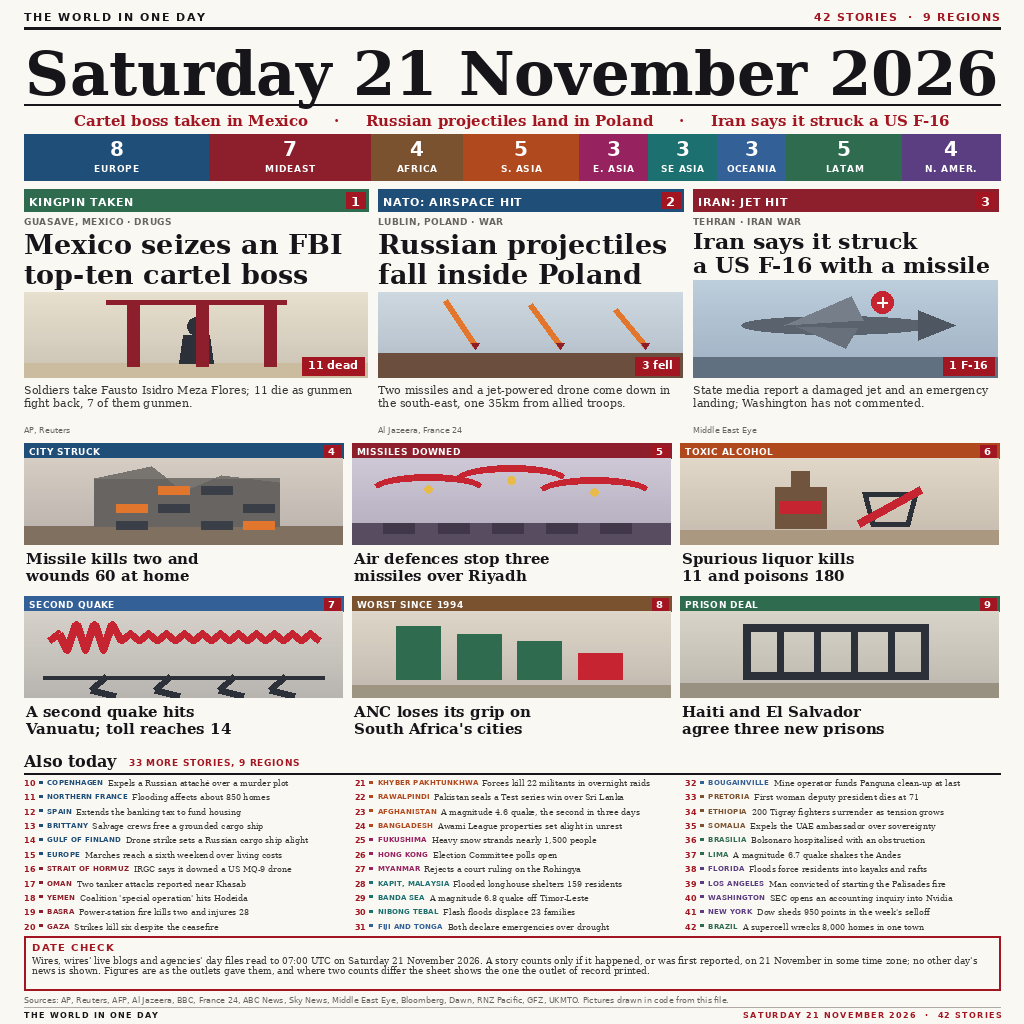
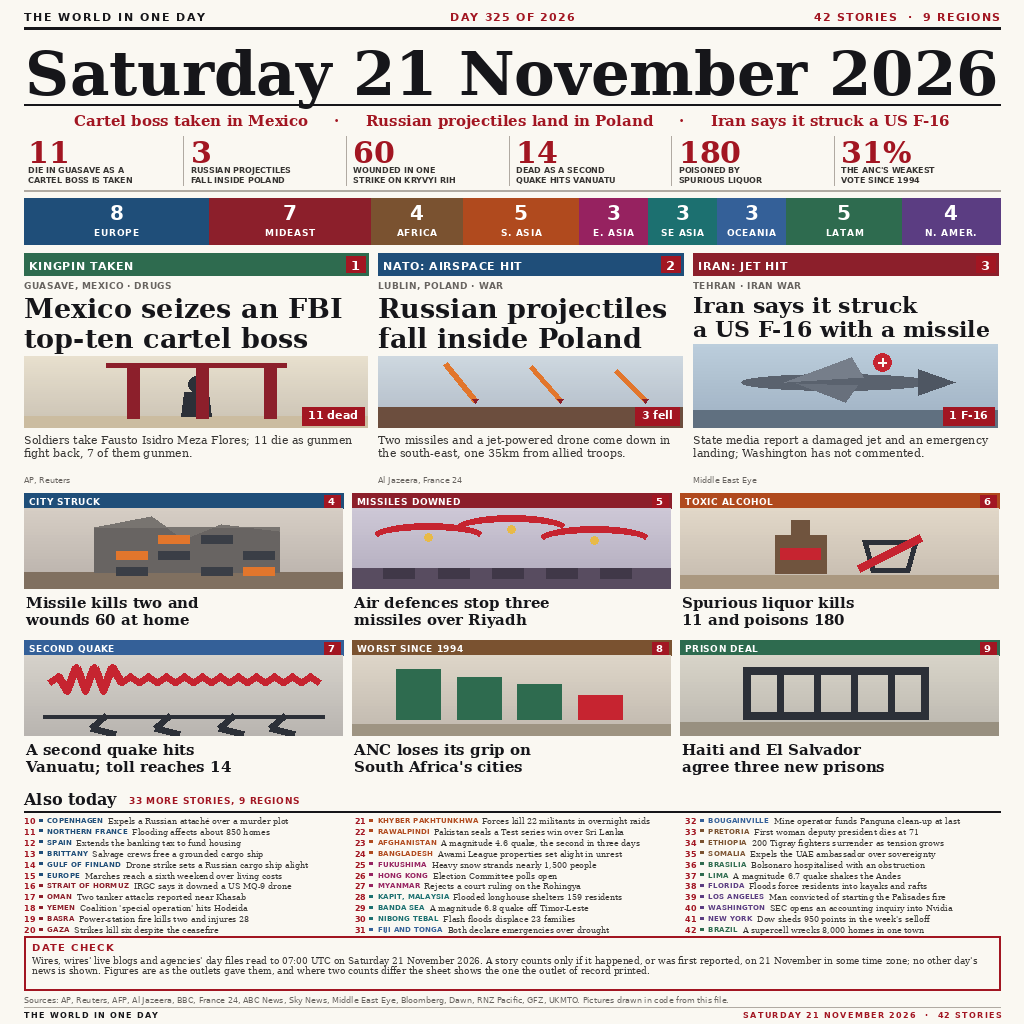
Add a six-figure band and a day-of-year stamp: quantities above the fold

diff --git a/tools/render21.py b/tools/render21.py
@@ -117,6 +117,10 @@ def head_block(draw, y):
     """Running head, the date, the day's three sell lines."""
     f_head = font(SANS_B, 11)
     tracked(draw, (MARGIN, y), "THE WORLD IN ONE DAY", f_head, INK, 1.6)
+    # Day of year in the middle: a second, numeric way of naming the day.
+    mid = f"DAY {S.DAY_OF_YEAR} OF 2026"
+    f_m = font(SANS_B, 11)
+    tracked(draw, ((W - text_w(draw, mid, f_m, 1.2)) / 2, y), mid, f_m, RED, 1.2)
     right = f"{S.total_stories()} STORIES  ·  {len(S.REGIONS)} REGIONS"
     f_r = font(SANS_B, 11)
     tracked(draw, (W - MARGIN - text_w(draw, right, f_r, 1.2), y), right, f_r, RED, 1.2)
@@ -132,12 +136,35 @@ def head_block(draw, y):
     rule(draw, y, 2, INK)
     y += 7
 
-    sell = "     ·     ".join(S.STRAPLINE)
-    f_it, _ = fit(draw, sell, SERIF_B, 15, MEASURE)
-    tw = draw.textlength(sell, font=f_it)
-    draw.text(((W - tw) / 2, y), sell, font=f_it, fill=RED)
+    st = "     ·     ".join(S.STRAPLINE)
+    f_it, _ = fit(draw, st, SERIF_B, 15, MEASURE)
+    tw = draw.textlength(st, font=f_it)
+    draw.text(((W - tw) / 2, y), st, font=f_it, fill=RED)
     y += f_it.size + 8
     return y
+
+
+def figures_block(draw, y):
+    """Six figures in red with captions, rule-separated, on one baseline band."""
+    colw = MEASURE / 6
+    top = y
+    bottoms = []
+    for i, (num, cap) in enumerate(S.FIGURES):
+        cx = MARGIN + i * colw
+        f_num, nsz = fit(draw, num, SERIF_B, 30, colw - 12)
+        draw.text((cx + 4, top), num, font=f_num, fill=RED)
+        cy = top + int(nsz * 1.0) + 1
+        f_cap = font(SANS_B, 8)
+        for ln in cap.split("\n"):
+            for piece in wrap(draw, ln, f_cap, colw - 12):
+                draw.text((cx + 4, cy), piece.upper(), font=f_cap, fill=BODY)
+                cy += f_cap.size + 2
+        bottoms.append(cy)
+        if i:
+            draw.line([(cx - 3, top + 2), (cx - 3, max(bottoms))], fill=RULE, width=1)
+    y = max(bottoms) + 5
+    rule(draw, y, 2)
+    return y + 8
 
 
 def region_block(draw, y):
@@ -367,14 +394,15 @@ def render(path):
 
     y = 10
     y = head_block(draw, y)
+    y = figures_block(draw, y)
     y = region_block(draw, y)
 
     footer_h = 80
     bottom = H - 8 - footer_h
     flex = bottom - y
 
-    lead_h = int(flex * 0.33)
-    cards_h = int(flex * 0.40)
+    lead_h = int(flex * 0.34)
+    cards_h = int(flex * 0.42)
     rail_h0 = 0
     rail_h = flex - lead_h - cards_h - 18
 

diff --git a/tools/audit21.py b/tools/audit21.py
@@ -46,19 +46,21 @@ img = Image.new("RGB", (R.W, R.H), R.PAPER)
 d = ImageDraw.Draw(img)
 y = 10
 y_head = R.head_block(d, y)
-y_reg = R.region_block(d, y_head)
-check(y_head <= 190, f"head block ends at {y_head}, over budget")
-check(y_reg <= 250, f"region strip ends at {y_reg}, over budget")
+y_fig = R.figures_block(d, y_head)
+y_reg = R.region_block(d, y_fig)
+check(y_head <= 145, f"head block ends at {y_head}, over budget")
+check(y_fig <= 235, f"figures band ends at {y_fig}, over budget")
+check(y_reg <= 295, f"region strip ends at {y_reg}, over budget")
 
 footer_h = 80
 bottom = R.H - 8 - footer_h
 flex = bottom - y_reg
-lead_h = int(flex * 0.33)
-cards_h = int(flex * 0.40)
+lead_h = int(flex * 0.34)
+cards_h = int(flex * 0.42)
 rail_h = flex - lead_h - cards_h - 18
 
-check(lead_h > 230, f"lead row only {lead_h}px: the pictures would be too small")
-check(cards_h > 280, f"card grid only {cards_h}px")
+check(lead_h > 205, f"lead row only {lead_h}px: the pictures would be too small")
+check(cards_h > 250, f"card grid only {cards_h}px")
 check(rail_h > 110, f"rail only {rail_h}px")
 
 ends = y_reg + lead_h + 8 + cards_h + 10 + rail_h
@@ -94,6 +96,6 @@ if problems:
 
 print("OK")
 print(f"  stories {total} across {len(S.REGIONS)} regions: {counts}")
-print(f"  sections: head<={y_head} region<={y_reg} lead={lead_h} "
+print(f"  sections: head<={y_head} figs<={y_fig} region<={y_reg} lead={lead_h} "
       f"cards={cards_h} rail={rail_h} end={ends} footer={bottom}")
 print(f"  image 1024x1024, {nbytes} bytes")

diff --git a/tools/stories21.py b/tools/stories21.py
@@ -15,12 +15,29 @@ markets and sport.
 
 DAY_LABEL = "Saturday 21 November 2026"
 
+# Day of year, so the sheet dates itself twice: by name and by number.
+import datetime as _dt
+
+DAY_OF_YEAR = (_dt.date(2026, 11, 21) - _dt.date(2026, 1, 1)).days + 1
+
 # Three sell lines under the date, in the order the leads appear.
 STRAPLINE = (
     "Cartel boss taken in Mexico",
     "Russian projectiles land in Poland",
     "Iran says it struck a US F-16",
 )
+
+# Six figures, each one stated by the reporting of a story on the sheet. They
+# give the day a quantitative spine above the fold, the way a front page's
+# "by the numbers" strip does.
+FIGURES = [
+    ("11", "die in Guasave as a\ncartel boss is taken"),
+    ("3", "Russian projectiles\nfall inside Poland"),
+    ("60", "wounded in one\nstrike on Kryvyi Rih"),
+    ("14", "dead as a second\nquake hits Vanuatu"),
+    ("180", "poisoned by\nspurious liquor"),
+    ("31%", "the ANC's weakest\nvote since 1994"),
+]
 
 # Nine regions, each with its own colour. Short labels: the strip is read at
 # 300 px, where a long region name becomes a grey smear.

diff --git a/README.md b/README.md
@@ -10,7 +10,9 @@ in the [make.fun](https://make.fun/bounty/news-image-20261121) bounty
 
 ## What the sheet says
 
-Forty-two stories across nine regions. The day's three leads:
+Forty-two stories across nine regions, six figures above the fold, and the day
+stamped twice over: by name, Saturday 21 November 2026, and by number, day 325
+of the year. The day's three leads:
 
 1. **Mexico seizes an FBI top-ten cartel boss** — Fausto Isidro Meza Flores,
    "El Chapo Isidro", taken in Guasave, Sinaloa; eleven die as gunmen fight back.
@@ -20,7 +22,11 @@ Forty-two stories across nine regions. The day's three leads:
 3. **Iran says it struck a US F-16** — state media report a missile hit, a damaged
    aircraft and an emergency landing; Washington has not commented.
 
-Six more carry pictures: a missile strike on Kryvyi Rih that killed two and
+A six-figure band above the region strip gives the day its quantities: 11 dead
+in Guasave, 3 projectiles down in Poland, 60 wounded in Kryvyi Rih, 14 dead in
+Vanuatu, 180 poisoned in Manipur, and the ANC's 31 percent.
+
+Six stories carry pictures: a missile strike on Kryvyi Rih that killed two and
 wounded sixty, three Houthi missiles stopped over Riyadh, spurious liquor that
 killed eleven and poisoned 180 in Manipur, a second earthquake in Vanuatu that
 lifted the toll to fourteen, the ANC's worst result since 1994, and the
@@ -31,8 +37,9 @@ labelled briefs.
 
 - `main.py` — standard library only. It copies the committed `entry.png` to
   `/output/entry.png`. Two runs write identical bytes.
-- `entry.png` — the finished sheet, 1024×1024, about 162 KB.
-- `tools/stories21.py` — one record per story. Every count on the page is derived
+- `entry.png` — the finished sheet, 1024×1024, about 169 KB.
+- `tools/stories21.py` — one record per story, plus the six figures and the
+  day-of-year, which is computed from the date rather than typed. Every count on the page is derived
   from these records: the region strip, the story totals in the running head and
   folio, and the number the "Also today" rail starts at. Nothing is typed twice,
   so the arithmetic cannot drift away from the stories shown.
